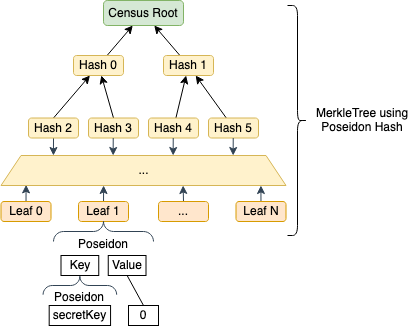
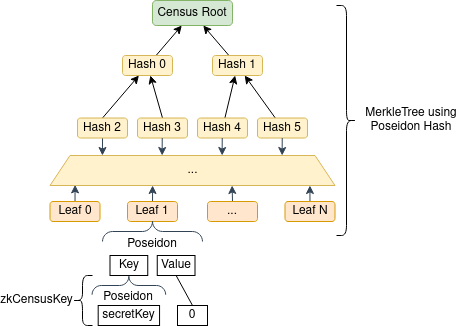
Restructure zk-census-proof spec for a more modular understanding
Separate the zk-census-proof flow in a more modular focus, so it allows
to reason better regarding each part, and allows to see better for
example that the steps 1-2 could be done in different ways, and it's a
matter of replacing one by the other.

Changed region(s): [[0.0, 0.0, 0.9952, 1.0], [0.2488, 0.0, 0.4976, 0.1227], [0.1555, 0.2761, 0.1866, 0.3067]]

diff --git a/src/architecture/protocol/anonymous-voting/zk-census-proof.md b/src/architecture/protocol/anonymous-voting/zk-census-proof.md
@@ -67,21 +67,23 @@ Steps:
 %%{init: {'theme':'forest'}}%%
 
 sequenceDiagram
-Organizer->>Organizer: 1. create user login keys
-Organizer->>Organizer: 2. build merkleTree with login keys
-Organizer->>Vochain: 3. create new voting process (newProcessTx)
-User->>User: 4. generate voting key
-User->>Vochain: 5. register voting key using login key (registerKeyTx)
-Vochain->>Vochain: 6. build voting census merkle tree (in state)
-Vochain->>Vochain: 7. startBlock is reached, election starts
-Vochain->>Vochain: 8. last merkle tree root becomes censusRoot
-Vochain->>User: 9.get MerkleProof
+opt Steps 1-2 depend on the kind of census being used (csv, EthStorageProofs, ...)
+  Organizer->>Vochain: 1. create new voting process (newProcessTx) & define the CensusRegisterFunction
+  User->>User: 2. generate CensusRegisterProof
+end
+
+User->>User: 3. generate zkCensusKey
+User->>Vochain: 4. register zkCensusKey using CensusRegisterProof that matches the CensusRegisterFunction
+Vochain->>Vochain: 5. build voting census merkle tree (in state)
+Vochain->>Vochain: 6. startBlock is reached, election starts
+Vochain->>Vochain: 7. last merkle tree root becomes censusRoot
+Vochain->>User: 8.get MerkleProof
 # note, next line goes from User->User instead of User->IPFS to avoid spending a full column just for 1 query to IPFS
-User->>User: 10. get ProvingKey & WitnessCalc (from IPFS GW)
-User->>User: 11. generate zkInputs
-User->>User: 12. generate zkSNARK proof
-User->>Vochain: 13. cast the vote with zkSNARK proof
-Vochain->>Vochain: 14. verify zkSNARK proof, accept the vote
+User->>User: 9. get ProvingKey & WitnessCalc (from IPFS GW)
+User->>User: 10. generate zkInputs
+User->>User: 11. generate zkSNARK proof
+User->>Vochain: 12. cast the vote with zkSNARK proof
+Vochain->>Vochain: 13. verify zkSNARK proof, accept the vote
 ```
 
 #### Steps description
@@ -92,47 +94,119 @@ Vochain->>Vochain: 14. verify zkSNARK proof, accept the vote
  - *[G]* = Gateway
 :::
 
-1. Circom [circuit](https://github.com/vocdoni/zk-franchise-proof-circuit) is compiled & **Trusted Setup** generated
-2. *[O]* Create user **login keys**
-    - from csv data (+ user_secret?)
-3. *[O]* Build **merkleTree** with login keys
-4. *[O+V]* Create **new voting process** (newProcessTx)
-5. *[U]* Generate **voting key** (used as leaf key)
-    - User's *voting key*: `sk = Hash(login_key | user_secret)`
-        - This is the key that will be added into the *CensusTree*
-6. *[U+V]* **Register voting key** using **login key** (registerKeyTx)
-7. *[V]* Build voting **census merkle tree** (in state)
-    - Where each leaf contains the hash of each user's `secretKey` (*voting key*)
+0. Circom [circuit](https://github.com/vocdoni/zk-franchise-proof-circuit) is compiled & **Trusted Setup** generated
+1. *[O+V]* Create new voting process (newProcessTx) & define the **CensusRegisterFunction**
+    - The **CensusRegisterFunction** could be for example:	
+        - Using **csv file**: MerkleTree made from a `csv` data file, and the **CensusRegisterFunction** being the verification of the MerkleProof of that MerkleTree (check [flow-for-csv-votations section](#flow-for-csv-votations) for more details)
+        - Using **Ethereum storage proofs**: The root of EthereumTree at a certain block, and the **CensusRegisterFunction** being the verification of the MerkleProof of that Ethereum MerkleTree (check [flow-for-ethereumstorageproofs-votations section](#flow-for-ethereumstorageproofs-votations) for more details)
+2. *[U]* Generate CensusRegisterProof, more details:
+    - [flow for csv votations](#flow-for-csv-votations)
+    - [flow for ethereumstorageproofs votations](#flow-for-ethereumstorageproofs-votations)
+3. *[U]* Generate **zkCensusKey** (used as leaf key)
+      - This is the key that will be added into the *CensusTree*
+4. *[U+V]* **Register zkCensusKey** using **CensusRegisterProof** (registerKeyTx)
+  - Vochain checks that the **CensusRegistryProof** can be validated for the **CensusRegisterFunction**
+5. *[V]* Build voting **census merkle tree** (in state)
+    - Where each leaf contains the hash of each user's `secretKey` (*zkCensusKey*)
     - MerkleTree type: circom compatible
         - Hash function: [Poseidon](https://github.com/iden3/go-iden3-crypto/blob/master/poseidon/poseidon.go)
         - Tree [Go impl](https://github.com/vocdoni/vocdoni-node/blob/master/censustree/arbotree/wrapper.go)
-8. *[V]* StartBlock is reached, **election starts**
-9. *[V]* Last merkle tree root becomes **censusRoot**
-10. *[V+U]* **Get MerkleProof**
+6. *[V]* StartBlock is reached, **election starts**
+7. *[V]* Last merkle tree root becomes **censusRoot**
+8. *[V+U]* **Get MerkleProof**
     - Vochain will send the *'compressed MerkleProof'* (which are the siblings compressed)
     - Client side will need to 'decompress' it
         - The logic to decompress the siblings [can be found here](https://github.com/vocdoni/arbo/blob/master/tree.go#L606)
         - And [here](https://github.com/vocdoni/arbo/blob/master/tree.go#L577) the explaination of the encoding
-11. *[U+G]* **Get ProvingKey & WitnessCalc**
+9. *[U+G]* **Get ProvingKey & WitnessCalc**
     - *Proving Key & Witness Calc* depend on the circuit being used
-12. *[U]* **Generate zkInputs**
+10. *[U]* **Generate zkInputs**
     - check the [zkInputs generation](#zkInputs-generation) section for more details
-13. *[U]* **Generate zkSNARK proof**
+11. *[U]* **Generate zkSNARK proof**
     - using: *zkInputs + Proving Key + Witness Calculator*
-14. *[U]* **Cast the vote** with zkSNARK proof
+12. *[U]* **Cast the vote** with zkSNARK proof
     - contains:
         - *public inputs*
         - *zkProof*
         - *vote*
-15. *[V]* **Verify zkSNARK proof**, accept the vote
+13. *[V]* **Verify zkSNARK proof**, accept the vote
     - Needs to know:
         - ElectionID
         - Verification Key (depends on the circuit being used (census size))
         - User's *public inputs* + *zkProof*
 
+#### Flow for csv votations
+> **Important**: This scheme assumes fully trusting the *organization*, as the
+> *organization* could add non-real users to the census that later can be used
+> to issue valid votes.
+>
+> Also the organization could directly register in the *Vochain* the *Users*
+> secret keys, avoiding to need the registration phase.
+
+```mermaid
+%%{init: {'theme':'forest'}}%%
+
+sequenceDiagram
+opt Steps 1-2 for the csv processes
+  Organizer->>Organizer: 0.1. create user login keys
+  Organizer->>Organizer: 0.2. build merkleTree with login keys
+  Organizer->>Vochain: 1. create new voting process (newProcessTx) & define the CensusRegisterFunction=CSVCensus
+  User->>User: 2. generate CensusRegisterProof of type csv-merkletree
+end
+User->>User: 3. generate zkCensusKey
+User->>Vochain: 4. register zkCensusKey using CensusRegisterProof (registerKeyTx)
+Note over Organizer,User: From here continues with the normal flow
+```
+
+- 0.1. *[O]* Create user **login keys**
+    - from csv data
+- 0.2. *[O]* Build **MerkleTree** with login keys
+- 1. *[O+V]* Create **new voting process** (newProcessTx) & define the CensusRegisterFunction=CSVCensus
+    - **CensusRegisterFunction** checks that:
+      - the given *MerkleProof* matches with the defined *Ethereum Root*
+      - the sender of the *MerkleProof* is the owner of that address (check eth-signature)
+- 2. *[U]* Generate **CensusRegisterProof**
+    - which is the MerkleProof that the user 'login key' is in the tree 
+- 3. *[U]* Generate **zkCensusKey** (used as leaf key)
+    - User's *zkCensusKey*: `zkCensusKey = Hash(userSecret)`
+        - Here `userSecret` can be `csv user's data + secret from user`
+        - This is the key that will be added into the *CensusTree*
+- 4. *[U+V]* **Register zkCensusKey** using **CensusRegisterProof** (registerKeyTx)
+  - Vochain checks that the **CensusRegistryProof** can be validated for the **CensusRegisterFunction**
+
+#### Flow for EthereumStorageProofs votations
+```mermaid
+%%{init: {'theme':'forest'}}%%
+
+sequenceDiagram
+opt Steps 1-2 for the Ethereum Storage Proofs processes
+  Organizer->>Vochain: 1.0. create new voting process (newProcessTx) & define the CensusRegisterFunction=EthStorageProofsCensus
+  User->>User: 2. generate CensusRegisterProof of type EthStorageProof
+end
+User->>User: 3. generate zkCensusKey
+User->>Vochain: 4. register zkCensusKey using CensusRegisterProof (registerKeyTx)
+Note over Organizer,User: From here continues with the normal flow
+```
+
+- 1. *[O+V]* Create **new voting process** (newProcessTx) & define the CensusRegisterFunction=EthStorageProofsCensus
+    - CensusRegisterFunction: checks that:
+      - the given *MerkleProof* matches with the defined *Ethereum Root*
+      - the sender of the *MerkleProof* is the owner of that address (check eth-signature)
+    - *[O]* Define the *EthTreeRoot* for the **CensusRegisterFunction**
+- 2. *[U]* Generate **CensusRegisterProof**
+    - which is the EthereumStorageProof + an ethereum signature by the address of the EthereumStorageProof (to prove ownership of the proof)
+- 3. *[U]* Generate **zkCensusKey** (used as leaf key)
+    - User's *zkCensusKey*: `zkCensusKey = Hash(userSecret)`
+	- Here `userSecret` can be the value of the signature of a public known constant made by the user's EthereumKey (where the output is only known by the user, as it is used as a 'secret key'). This is the approach that Hermez zkRollup uses to derive 'snark friendly' keys from Metamask's Ethereum Keys
+        - This is the key that will be added into the *CensusTree*
+- 4. *[U+V]* **Register zkCensusKey** using **CensusRegisterProof** (registerKeyTx)
+  - Vochain checks that the **CensusRegistryProof** can be validated for the **CensusRegisterFunction**
+
+
+
 
 ### Merkle Tree
-The MerkleTree needs to be a zkSNARK-friendly implementation. As currently we are using [Circom](https://github.com/iden3/circom) for the zkSNARK circuits, we need to be compatible with the [circomlib](https://github.com/iden3/circomlib/tree/master/circuits/smt) MerkleTree implementation. A specification of the MerkleTree [can be found here](https://docs.iden3.io/publications/pdfs/Merkle-Tree.pdf).
+The MerkleTree used for building the *anonymous census* needs to be a zkSNARK-friendly implementation. As currently we are using [Circom](https://github.com/iden3/circom) for the zkSNARK circuits, we need to be compatible with the [circomlib](https://github.com/iden3/circomlib/tree/master/circuits/smt) MerkleTree implementation. A specification of the MerkleTree [can be found here](https://docs.iden3.io/publications/pdfs/Merkle-Tree.pdf).
 
 In the Vochain, we're using the [arbo](https://github.com/vocdoni/arbo) MerkleTree, which is a Go implementation compatible with the Circom spec.
 
